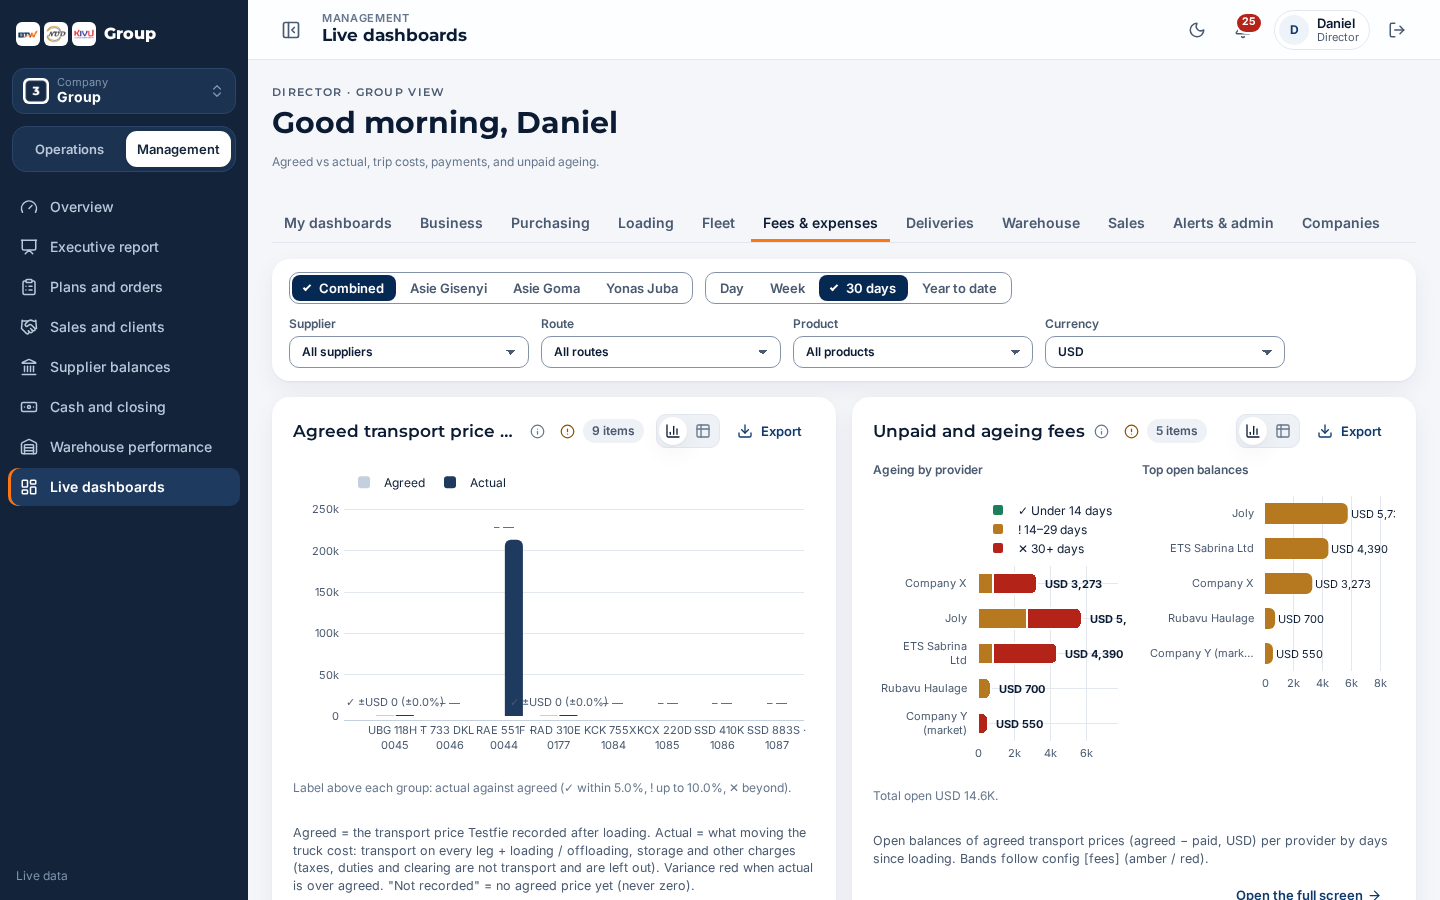
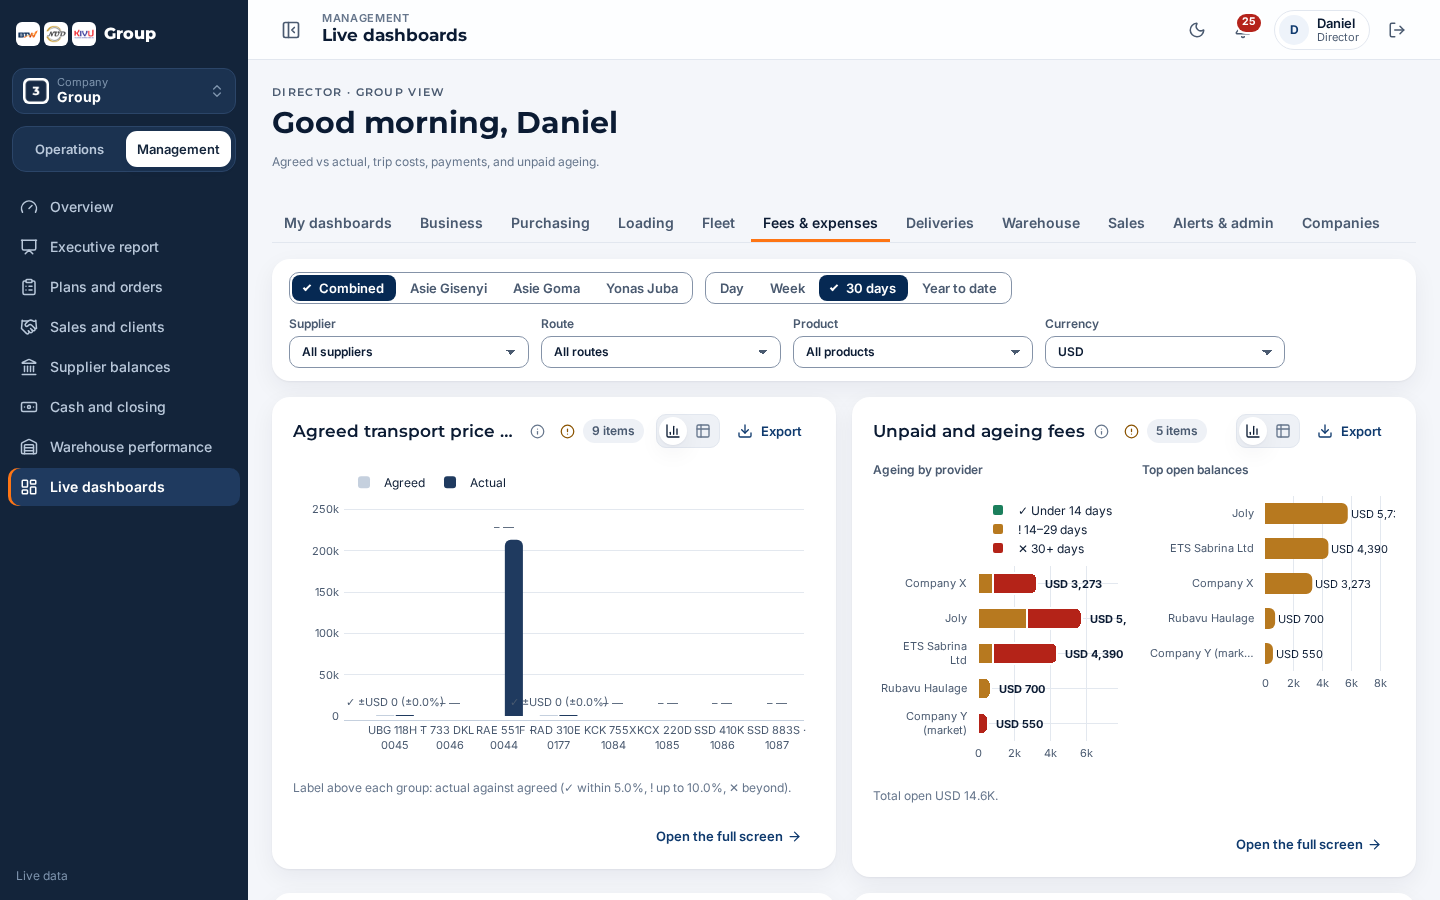
fix(v3-dashboards): drop the method text under Live dashboard charts (V3-11)
The definition stays on the info button and in exports.

Changed region(s): [[0.1875, 0.9022, 0.5625, 0.9956], [0.5938, 0.9333, 0.9688, 1.0]]

diff --git a/apps/web/src/components/dashboard/report.css b/apps/web/src/components/dashboard/report.css
@@ -9,4 +9,3 @@
 .dash-chip { display: inline-flex; flex: none; align-items: center; padding: 2px 9px; border-radius: 99px; font-size: 12px; font-weight: 600; white-space: nowrap; background: var(--surface-sunken); color: var(--text-muted); }
 .dash-chip.good { background: var(--success-subtle); color: var(--success); }
 .dash-chip.bad { background: var(--danger-subtle); color: var(--danger); }
-.dash-method { margin: var(--space-2) 0 0; font-size: 12.5px; line-height: 1.4; color: var(--text-muted); }

diff --git a/apps/web/src/components/dashboard/DashboardPanel.svelte b/apps/web/src/components/dashboard/DashboardPanel.svelte
@@ -92,7 +92,6 @@
     {:else}
       {@render children()}
     {/if}
-    {#if ready && !isEmpty && definition}<p class="dash-method">{definition}</p>{/if}
   </div>
 
   {#if drill && ready && !isEmpty}

diff --git a/docs/work/plans/V3-11.md b/docs/work/plans/V3-11.md
@@ -11,7 +11,7 @@ The Live dashboards (Home tabs) read like the Management report: a calm grid of 
 |---|---|---|
 | LD-1 | Fleet: each section scrolls on its own | Fleet tab = a grid that fills the viewport below the tabs (`height: calc(100dvh - header)`). Each card has `max-height` + `overflow: auto` on its body, with a sticky card header and a sticky table header. Phone: sections stack and keep their own max height. |
 | LD-2 | Arrange content like the reports | Per tab: KPI row first (the report's KPI card: label, value, change chip, spark), then paired cards (two columns), lists on the right, wide charts full width. Reuse the Management Overview styles (`screens/management/Overview.svelte`) as shared classes (move them to `components/dashboard/report.css`). |
-| LD-3 | Same look as Management | Card titles, chips ("x items", "Total …"), the method text at the bottom, the same filter bar (warehouse chips + period). |
+| LD-3 | Same look as Management | Card titles, chips ("x items", "Total …"), the same filter bar (warehouse chips + period). Method text stays on the info button, not under the chart. |
 | LD-4 | Keep what works | Data, builders, links and the `.cursor/rules/dashboards-home.mdc` rules stay; UI-5's header fix (D-1…D-4) is folded in here. |
 
 ## Order
@@ -33,6 +33,7 @@ The Live dashboards (Home tabs) read like the Management report: a calm grid of 
 | 26 Nov | Border heatmap labels | nine long stop names drawn in a straight line across a half-width card | `Heatmap.svelte`: ticks drop the country note and the words border / weighbridge, then turn vertical when there are many columns; the chart grows so the rows are not clipped | `live-dashboards.mjs`: 9 labels (Katuna/Gatuna … Athi River), 0 overlaps | ✅ |
 | 26 Nov | LD-2 / LD-3 report layout on the other tabs | feature tabs used a filter icon and stretched a lone card across the row; Business KPIs did not match the report cards | `report.css` plus the warehouse and period bar on every feature tab; Business KPIs use the report card (label, value, change chip, spark); each card shows an items chip and the method at the bottom; a short card stays one column. Fleet still fits the screen | `live-dashboards.mjs`: Fleet still fits; Business, Purchasing, Loading, Fees, Deliveries, Warehouse, Sales and Alerts each show the bar, cards and method text, with no page errors. Week and a warehouse chip both select | ✅ |
 | 26 Nov | Filter bar too tall | supplier, route, product and currency each took their own line, with empty space beside them | the bar is two rows on every Live dashboard tab: warehouse and period chips, then the selects side by side | `live-dashboards.mjs`: Fleet and the eight other tabs, bar is 2 rows, selects on 1 line, 122px tall. Fleet still fits | ✅ |
+| 26 Nov | Method text under the charts | each chart printed its full definition underneath, including the long Executive overview note | the definition stays on the info button and in exports. It is no longer drawn under the chart | `live-dashboards.mjs`: Business, Purchasing, Loading, Fees, Deliveries, Warehouse, Sales and Alerts have 0 method paragraphs | ✅ |
 
 ## Screenshots
 | Screen | Before | After |
@@ -50,7 +51,7 @@ The Live dashboards (Home tabs) read like the Management report: a calm grid of 
 
 ## Handover
 - **Last commit:** report layout on the other Live dashboard tabs, branch `v3/V3-11-report-layout`.
-- **Done:** V3-11a, LD-1, narrow Fleet headers, heatmap labels, LD-2 / LD-3 (report bar, KPI cards, paired grid, chips, method text). The filter bar is two rows on every tab. Fleet fit kept.
+- **Done:** V3-11a, LD-1, narrow Fleet headers, heatmap labels, LD-2 / LD-3 (report bar, KPI cards, paired grid, chips). The filter bar is two rows on every tab. Method text is on the info button, not under the chart. Fleet fit kept.
 - **Half-done:** nothing.
 - **Next step:** none on this row. V3-10 continues with Supplier balances.
 - **Run first:** `node tests/design-v3/live-dashboards.mjs http://localhost:5242/ docs/work/shots/V3-11`
